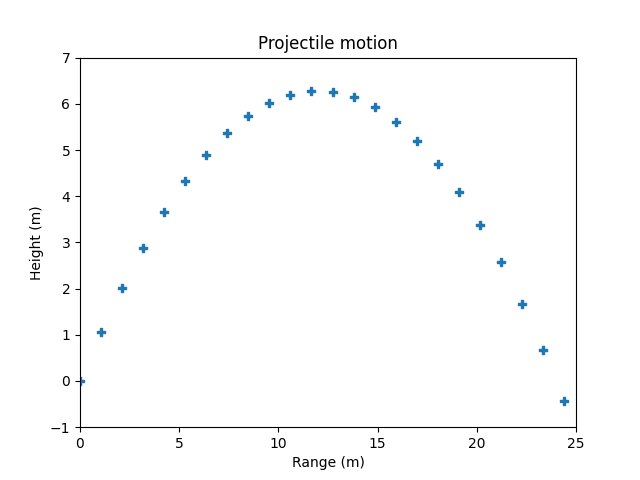
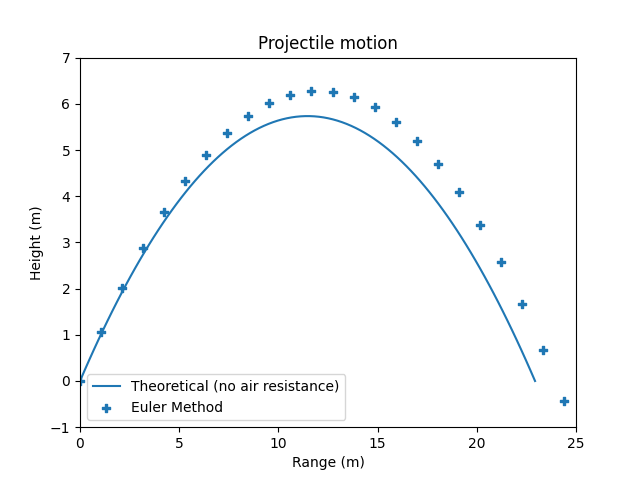
Refactored plotting figures 2.2 and 2.3, added theoretical curves to both figures, and updated the associated pngs

diff --git a/SchultzLiam_Project2.py b/SchultzLiam_Project2.py
@@ -1,4 +1,5 @@
 import numpy as np
+import scipy as sp
 import matplotlib.pyplot as plt
 
 #define constants
@@ -18,7 +19,39 @@ def miph_to_mps(x):
 def ft_to_m(x):
     return x/3.281
 
-def integrate(inital_speed, launch_angle, time_step, method, air_resistance=True):
+def plot_theoretical(initial_speed, launch_angle, x_final, y_0):
+    x_0 = 0
+    v_x, v_y = initial_speed * np.cos(launch_angle), initial_speed * np.sin(launch_angle)
+    t_final = (v_y+np.sqrt(v_y**2+2*g*y_0))/g
+    time = np.linspace(0, t_final, 100)
+    x = v_x*time
+    y = y_0+v_y*time-g*time**2/2
+    plt.plot(x, y)
+
+def plot_fig_2_2(x, y, initial_speed, launch_angle):
+    # code for plotting fig 2.2 (also set y to 0 in solve)
+    plot_theoretical(initial_speed, launch_angle, x[-1], y[0])
+    plt.scatter(x, y, marker="P")
+    plt.xlabel("Range (m)")
+    plt.ylabel("Height (m)")
+    plt.title("Projectile motion")
+    plt.legend(["Theoretical (no air resistance)", "Euler Method"])
+    plt.xlim(0, 25)
+    plt.ylim(-1, 7)
+    plt.show()
+
+def plot_fig_2_3(x, y, initial_speed, launch_angle, legend):
+    plot_theoretical(initial_speed, launch_angle, x[-1], y[0])
+    plt.scatter(x, y, marker="P")
+    plt.xlabel("Range (m)")
+    plt.ylabel("Height (m)")
+    plt.title("Projectile motion")
+    plt.legend(["theoretical (no air resistance)", legend])
+    plt.xlim(0, 250)
+    plt.ylim(-10, 70)
+    plt.show()
+
+def solve(initial_speed, launch_angle, time_step, method, air_resistance=True):
     fence_distance = ft_to_m(400)
     method = method.lower()
     launch_angle = rad(launch_angle)
@@ -27,11 +60,13 @@ def integrate(inital_speed, launch_angle, time_step, method, air_resistance=True
     #extract the components of the initial velocity and set the initial position
     x_array, y_array = [], []
     x, y = 0, 1
-    v_x, v_y = inital_speed*np.cos(launch_angle), inital_speed*np.sin(launch_angle)
-    #condition should be modified to y>=0 for pt 2
+    v_x, v_y = initial_speed * np.cos(launch_angle), initial_speed * np.sin(launch_angle)
+
+    #condition should be modified to just y>=0 for pt 2
     while x <= fence_distance and y > lower_y_limit:
         x_array.append(x)
         y_array.append(y)
+
         if air_resistance:
             magv = np.sqrt(v_x**2 + v_y**2)
             a = ((-v_x*C_D*RHO*A*magv)/(2*MASS),
@@ -56,40 +91,29 @@ def integrate(inital_speed, launch_angle, time_step, method, air_resistance=True
             v_y = v_y + time_step*a[1]
             x = x + time_step*((v_x+v_nx)/2)
             y = y + time_step*((v_y+v_ny)/2)
+
     x_array.append(x)
     y_array.append(y)
 
     #calculate range (Part 2)
     #return -y_array[-2]*((x_array[-1]-x_array[-2])/(y_array[-1]-y_array[-2])) + x_array[-2]
 
+    #uncomment to plot figures
+    #plot_fig_2_2(x_array, y_array, initial_speed, launch_angle)
+    #plot_fig_2_3(x_array, y_array, initial_speed, launch_angle, f"{method} method")
+
     #calculate range (Part 3)
     if y <= lower_y_limit:
         return lower_y_limit
     return y_array[-2]+(((y_array[-1]-y_array[-2])/(x_array[-1]-x_array[-2]))*(fence_distance-x_array[-2]))
 
-    """#code for plotting fig 2.2 (also set y to 0 above)
-    plt.scatter(x_array, y_array, marker="P")
-    plt.xlabel("Range (m)")
-    plt.ylabel("Height (m)")
-    plt.title("Projectile motion")
-    plt.xlim(0, 25)
-    plt.ylim(-1, 7)
-    plt.show()"""
 
-    #code for plotting fig 2.3
-    """plt.scatter(x_array, y_array, marker="P")
-    plt.xlabel("Range (m)")
-    plt.ylabel("Height (m)")
-    plt.title("Projectile motion")
-    plt.xlim(0, 250)
-    plt.ylim(-10, 70)
-    plt.show()"""
 
-"""#function call for plotting fig 2.2
-integrate(15, 45, 0.1, "euler", air_resistance=False)"""
+#function call for plotting fig 2.2
+#solve(15, 45, 0.1, "euler", air_resistance=False)
 
-"""#function call for plotting fig 2.3 (change method parameter to euler, euler-cromer or midpoint)
-integrate(50, 45, 0.1, "midpoint", air_resistance=True)"""
+#function call for plotting fig 2.3 (change method parameter to euler, euler-cromer or midpoint)
+#solve(50, 45, 0.1, "midpoint", air_resistance=True)
 
 ###Part 2
 #generate distributions
@@ -98,9 +122,10 @@ time_step = 0.1
 velocity_dist = miph_to_mps(15 * np.random.randn(samp_num) + 100)
 theta_dist = 10*np.random.randn(samp_num)+45
 
+#compute the AB/HR as specified in part 2
 """ranges = np.empty(samp_num)
 for i in range(samp_num):
-   ranges[i] = integrate(velocity_dist[i], theta_dist[i], time_step, method="euler", air_resistance=True)
+   ranges[i] = solve(velocity_dist[i], theta_dist[i], time_step, method="euler", air_resistance=True)
 
 AB_HR = samp_num/len(np.where(ranges>ft_to_m(400))[0])
 print(AB_HR)"""
@@ -112,7 +137,7 @@ ABHRs = np.empty(fence_height_num)
 
 ranges = np.empty(samp_num)
 for i in range(samp_num):
-   ranges[i] = integrate(velocity_dist[i], theta_dist[i], time_step, method="euler", air_resistance=True)
+   ranges[i] = solve(velocity_dist[i], theta_dist[i], time_step, method="euler", air_resistance=True)
 
 print(ranges)
 
